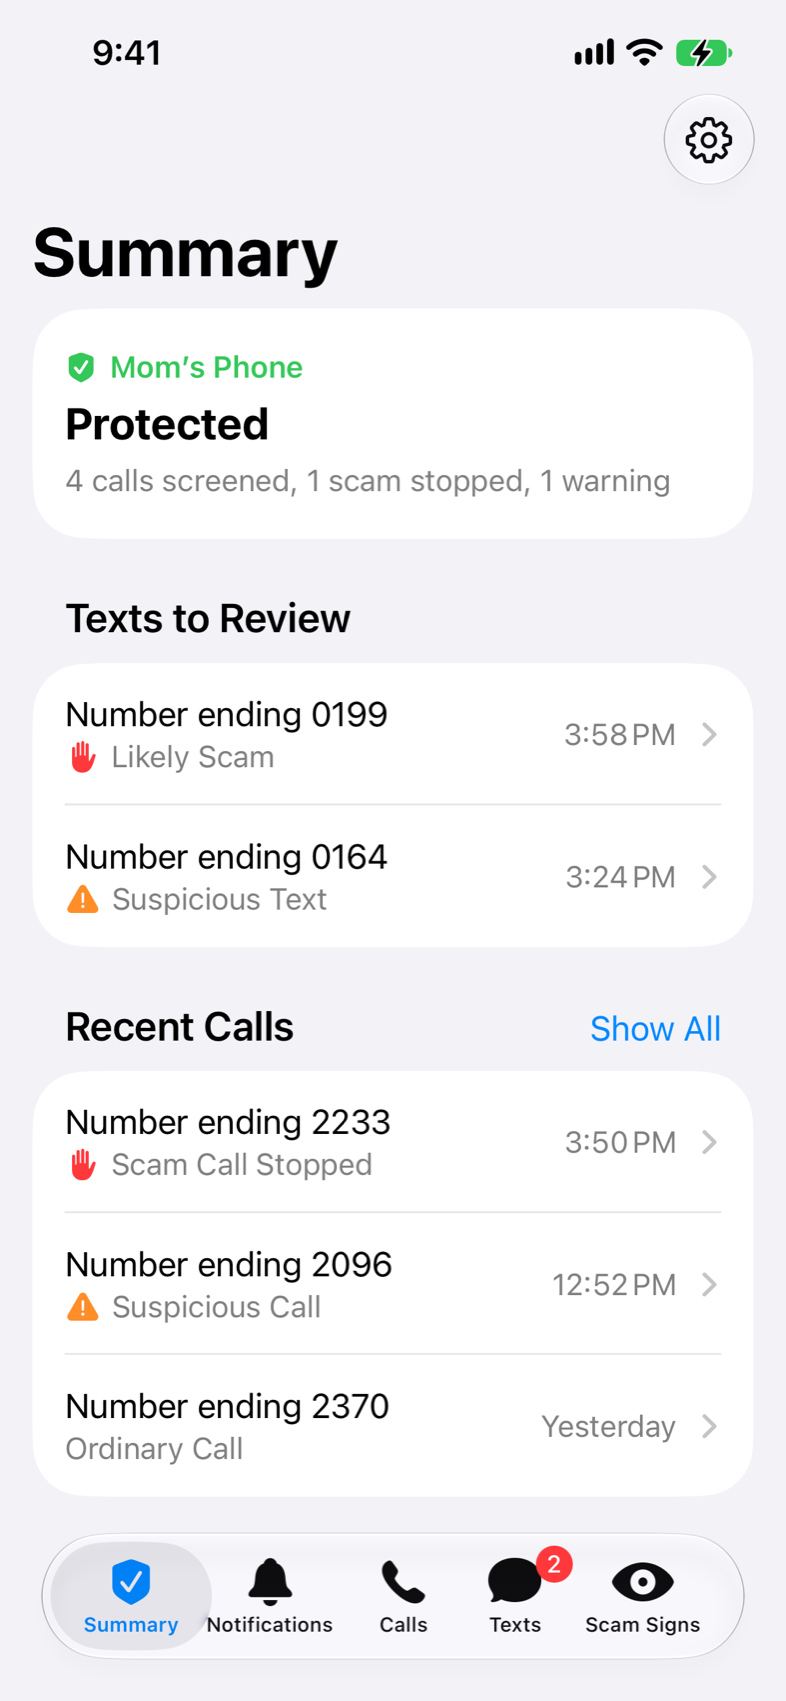
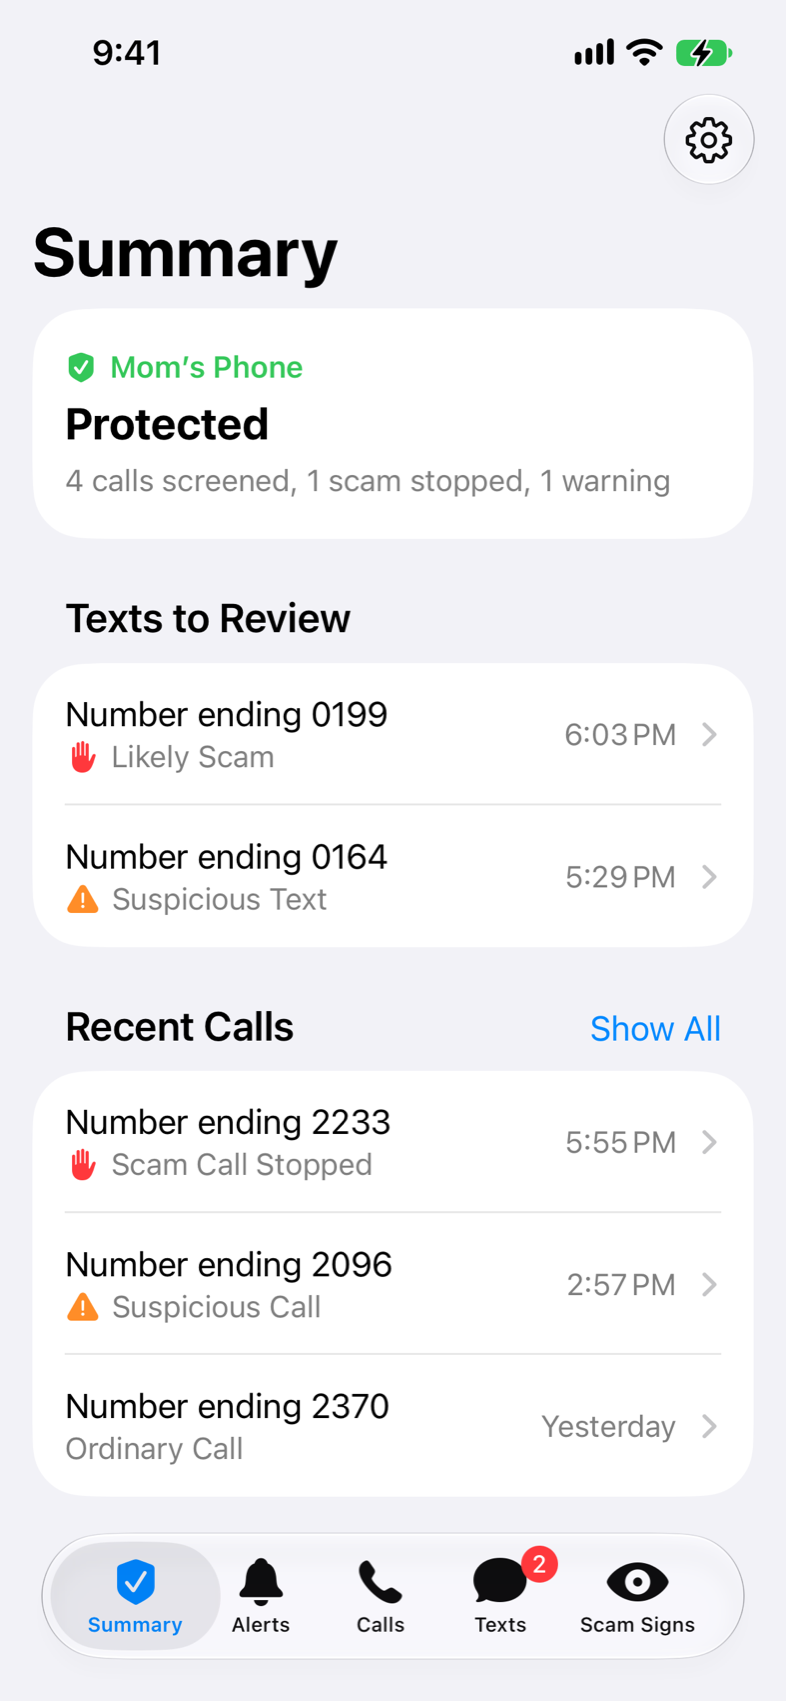
iPhone app: the page of calls and texts together is called Alerts
It was built as "Notifications", the word the user asked for it with. In a bar of five
tabs that word only just fit, close against its neighbors, and told that "Alerts" would
sit more easily the user said "i think alerts is better". The tab, the page's title, its
empty states, its sample (-sample alerts) and its names in the code all say Alerts now.

The screenshots that show the tab bar are retaken, and screens/notifications.png is
screens/alerts.png.

diff --git a/ios/Shield/Views/AlertsView.swift b/ios/Shield/Views/AlertsView.swift
@@ -1,8 +1,8 @@
 import SwiftUI
 
-/// The "Notifications" page: everything Palisade stepped into, calls and texts together,
+/// The "Alerts" page: everything Palisade stepped into, calls and texts together,
 /// newest first. The ordinary ones are on the Calls and Texts pages.
-struct NotificationsView: View {
+struct AlertsView: View {
     @Environment(ShieldStore.self) private var store
 
     var body: some View {
@@ -17,7 +17,7 @@ struct NotificationsView: View {
                     switch store.connection {
                     case .connected:
                         ContentUnavailableView(
-                            "No Notifications",
+                            "No Alerts",
                             systemImage: "bell",
                             description: Text("When Palisade warns you about a call, ends one, or holds a text, it shows up here.")
                         )
@@ -27,21 +27,21 @@ struct NotificationsView: View {
                         ContentUnavailableView(
                             "Not Connected",
                             systemImage: "exclamationmark.shield",
-                            description: Text("Notifications show up here once Palisade reaches its server.")
+                            description: Text("Alerts show up here once Palisade reaches its server.")
                         )
                         .listRowBackground(Color.clear)
                     case .signedOut:
                         ContentUnavailableView(
                             "Not Signed In",
                             systemImage: "exclamationmark.shield",
-                            description: Text("Notifications show up here once you sign in.")
+                            description: Text("Alerts show up here once you sign in.")
                         )
                         .listRowBackground(Color.clear)
                     case .refused:
                         ContentUnavailableView(
                             "No Access",
                             systemImage: "exclamationmark.shield",
-                            description: Text("Notifications show up here once your Palisade server lets this account in.")
+                            description: Text("Alerts show up here once your Palisade server lets this account in.")
                         )
                         .listRowBackground(Color.clear)
                     case .connecting:
@@ -53,7 +53,7 @@ struct NotificationsView: View {
         }
         .groupedListStyle()
         .animation(Motion.change, value: notices.map(\.id))
-        .navigationTitle("Notifications")
+        .navigationTitle("Alerts")
         .refreshable {
             await store.refresh()
         }
@@ -84,7 +84,7 @@ struct Notice: Identifiable {
     /// Where the row leads. Nil for a text that was only scored: there is nothing more to it.
     let page: Page?
 
-    /// Everything worth a notification in what the app already has, newest first.
+    /// Everything worth an alert in what the app already has, newest first.
     static func all(calls: [CallSummary], texts: [GatewayMessage], checks: [MessageSummary]) -> [Notice] {
         var notices: [Notice] = []
         for call in calls where call.outcome == .warned || call.outcome == .endedByShield {
@@ -117,7 +117,7 @@ struct Notice: Identifiable {
 }
 
 private extension OutcomeLook {
-    /// What Palisade did about a text, as a notification says it: what happened then, whatever
+    /// What Palisade did about a text, as an alert says it: what happened then, whatever
     /// was decided since. Nil for a text that went through with nothing to report.
     init?(noticeOf text: GatewayMessage) {
         let warning = "exclamationmark.triangle.fill"

diff --git a/ios/Shield/Views/MainTabs.swift b/ios/Shield/Views/MainTabs.swift
@@ -24,8 +24,8 @@ struct MainTabs: View {
                 Tab(AppTab.home.title, systemImage: AppTab.home.symbol, value: AppTab.home) {
                     HomePage()
                 }
-                Tab(AppTab.notifications.title, systemImage: AppTab.notifications.symbol, value: AppTab.notifications) {
-                    NotificationsPage()
+                Tab(AppTab.alerts.title, systemImage: AppTab.alerts.symbol, value: AppTab.alerts) {
+                    AlertsPage()
                 }
                 Tab(AppTab.calls.title, systemImage: AppTab.calls.symbol, value: AppTab.calls) {
                     CallsPage()
@@ -43,9 +43,9 @@ struct MainTabs: View {
                 HomePage()
                     .tabItem { Label(AppTab.home.title, systemImage: AppTab.home.symbol) }
                     .tag(AppTab.home)
-                NotificationsPage()
-                    .tabItem { Label(AppTab.notifications.title, systemImage: AppTab.notifications.symbol) }
-                    .tag(AppTab.notifications)
+                AlertsPage()
+                    .tabItem { Label(AppTab.alerts.title, systemImage: AppTab.alerts.symbol) }
+                    .tag(AppTab.alerts)
                 CallsPage()
                     .tabItem { Label(AppTab.calls.title, systemImage: AppTab.calls.symbol) }
                     .tag(AppTab.calls)
@@ -65,7 +65,7 @@ extension AppTab {
     var title: String {
         switch self {
         case .home: "Summary"
-        case .notifications: "Notifications"
+        case .alerts: "Alerts"
         case .calls: "Calls"
         case .texts: "Texts"
         case .signs: "Scam Signs"
@@ -76,7 +76,7 @@ extension AppTab {
     var symbol: String {
         switch self {
         case .home: "checkmark.shield"
-        case .notifications: "bell"
+        case .alerts: "bell"
         case .calls: "phone"
         case .texts: "message"
         case .signs: "eye"
@@ -99,10 +99,10 @@ private struct HomePage: View {
     }
 }
 
-private struct NotificationsPage: View {
+private struct AlertsPage: View {
     var body: some View {
         NavigationStack {
-            NotificationsView()
+            AlertsView()
                 .pageDestinations()
         }
     }

diff --git a/ios/Shield/Support/SampleData.swift b/ios/Shield/Support/SampleData.swift
@@ -332,7 +332,7 @@ extension ShieldStore {
             store.tab = .calls
             store.callsPath = [.blocked]
             return store
-        case "texts", "texts-paused", "text-held", "text-released", "text-delivered", "notifications", "home-texts":
+        case "texts", "texts-paused", "text-held", "text-released", "text-delivered", "alerts", "home-texts":
             // "text-released" is the first sample text after the caregiver let it through.
             let whole = name == "text-released"
                 ? [GatewayMessage.heldFee.sampleDecided("release")] + GatewayMessage.wholeSamples.dropFirst()
@@ -346,7 +346,7 @@ extension ShieldStore {
             )
             switch name {
             case "home-texts": store.tab = .home
-            case "notifications": store.tab = .notifications
+            case "alerts": store.tab = .alerts
             default: store.tab = .texts
             }
             if name == "text-held" || name == "text-released" { store.textsPath = [.text(GatewayMessage.heldFee.id)] }

diff --git a/ios/Shield/Support/Previews.swift b/ios/Shield/Support/Previews.swift
@@ -38,9 +38,9 @@ import SwiftUI
         .environment(ShieldStore.sample(named: "home-texts") ?? .preview())
 }
 
-#Preview("Notifications") {
+#Preview("Alerts") {
     MainTabs()
-        .environment(ShieldStore.sample(named: "notifications") ?? .preview())
+        .environment(ShieldStore.sample(named: "alerts") ?? .preview())
 }
 
 #Preview("Texts") {

diff --git a/ios/Shield/Services/ShieldStore.swift b/ios/Shield/Services/ShieldStore.swift
@@ -10,7 +10,7 @@ struct CallStats: Equatable {
 /// The app's pages, one per tab.
 enum AppTab: Hashable {
     case home
-    case notifications
+    case alerts
     case calls
     case texts
     case signs

diff --git a/ios/README.md b/ios/README.md
@@ -3,7 +3,7 @@
 The caregiver's app. It shows the call in progress (risk dial, warning signs, live
 transcript), takes over the screen when Palisade ends a scam call, keeps a list of
 recent calls, and holds the texts Palisade stopped until the caregiver releases or
-discards them. It has five pages behind a tab bar: Summary, Notifications, Calls, Texts
+discards them. It has five pages behind a tab bar: Summary, Alerts, Calls, Texts
 and Scam Signs. The protected person needs no app at all.
 
 It is a SwiftUI app for iOS 17 and later. It has one dependency, Auth0's library for
@@ -56,7 +56,7 @@ server's `GET /events` feed, its `GET /calls` list and, for texts, `GET /message
 - Texts, on 2026-10-10. Nabil built text protection on a branch from the app's first
   commit (a Texts tab, a review screen, a paste checker, a banner). Merged into main, his
   screens were rebuilt in the look the app has now, and two things were added at the
-  user's request: a Notifications page, and, in place of the banner, a count on the Texts
+  user's request: an Alerts page, and, in place of the banner, a count on the Texts
   tab, a buzz, and a "Texts to Review" section on Summary. Checked in a simulator made
   for the job, in light, in dark and at an accessibility text size, with sample data and
   against a practice server fed made-up texts: a scam text arriving on Summary, released
@@ -78,9 +78,9 @@ From the iPhone 17e simulator, with sample data.
 |---|---|---|
 | ![Call in progress](screens/live-call.png) | ![Palisade ended the call](screens/palisade-ended-the-call.png) | ![What happened](screens/what-happened.png) |
 
-| Texts | A held text | Notifications |
+| Texts | A held text | Alerts |
 |---|---|---|
-| ![Texts](screens/texts-inbox.png) | ![A held text](screens/text-review-held.png) | ![Notifications](screens/notifications.png) |
+| ![Texts](screens/texts-inbox.png) | ![A held text](screens/text-review-held.png) | ![Alerts](screens/alerts.png) |
 
 More: Summary with texts to review ([screens/text-live-alert.png](screens/text-live-alert.png)),
 a text after it was released ([screens/text-review-queued.png](screens/text-review-queued.png)),
@@ -123,7 +123,7 @@ When Palisade holds a text while the app is open, the phone buzzes once, the Tex
 shows how many held texts have not been looked at, and Summary lists them under "Texts
 to Review". Nothing is drawn over the screen for it, and a call screen is left alone.
 
-Notifications is one list, newest first, of everything Palisade stepped into: a call it
+Alerts is one list, newest first, of everything Palisade stepped into: a call it
 warned about or ended, a text it held, a text it could not get delivered. A row opens the
 call's summary or the text. It says what happened at the time ("Scam Text Held"),
 whatever was decided afterwards.
@@ -209,7 +209,7 @@ screens on a simulator or phone with the launch argument `-sample <name>`: `home
 `home-empty`, `home-offline`, `home-call`, `calls`, `signs`, `ringing`, `calm`,
 `watchful`, `suspicious`, `warned-over`, `ended` or `detail`. For texts: `texts`,
 `texts-paused`, `texts-empty`, `texts-off`, `text-held`, `text-released`,
-`text-delivered`, `notifications` and `home-texts`; a decision on a sample text changes
+`text-delivered`, `alerts` and `home-texts`; a decision on a sample text changes
 it, so Release and Discard can be tried with no server. Three more are a server
 that asks for a sign-in: `home-signed-in`, `home-signed-out` and `home-refused`; open
 Settings on them to see the Account section. `-appearance light` or `-appearance dark`
@@ -242,7 +242,7 @@ Shield/
   Services/ShieldStore.swift app state: connection, sign-in, current call, history, texts
   Services/SignIn.swift      the caregiver's sign-in with Auth0, kept in the Keychain
   Views/                     RootView (pages under the call screen), MainTabs (tab bar),
-                             HomeView (Summary), NotificationsView, CallsView, TextsView,
+                             HomeView (Summary), AlertsView, CallsView, TextsView,
                              TextDetailView, CheckTextView, SignsView, CallDetailView,
                              LiveCallView, SettingsView, SignInButton, RiskDial, FlagViews,
                              TranscriptView
